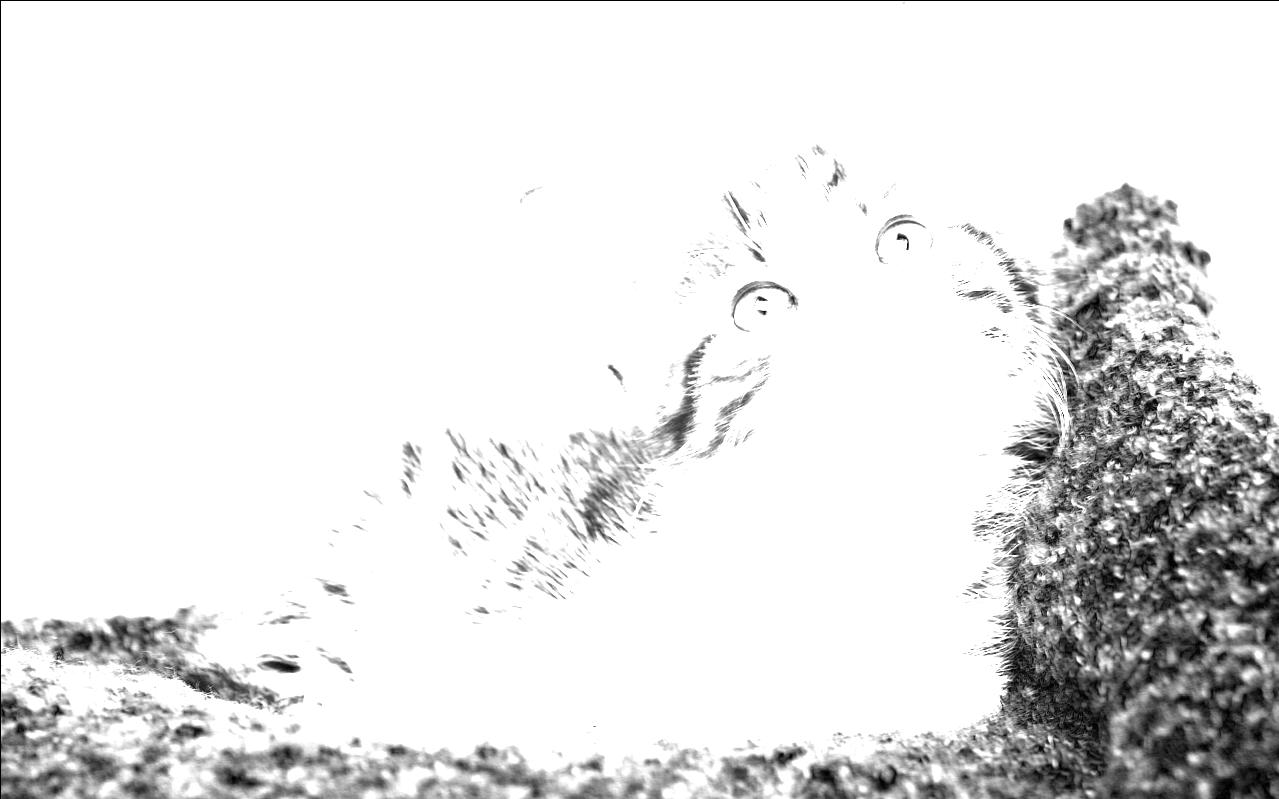
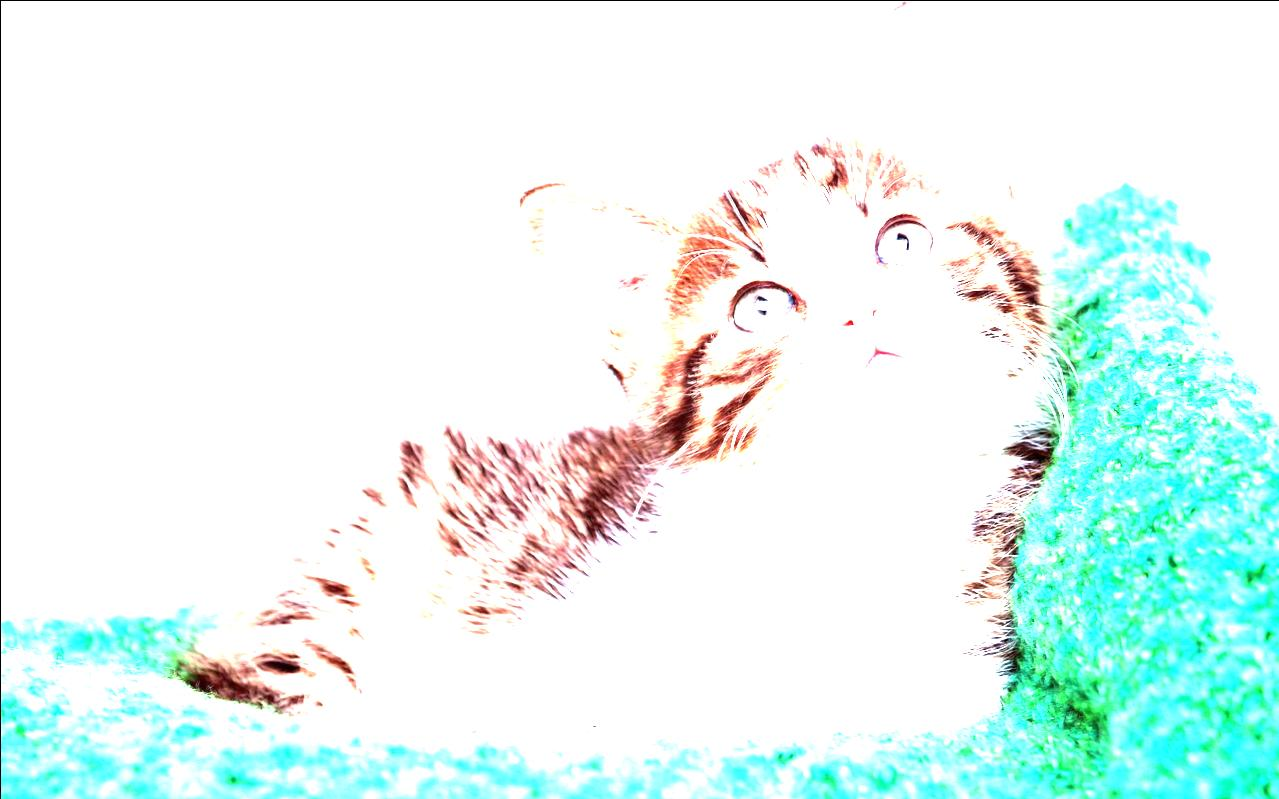
fixed small bug

diff --git a/sobel.m b/sobel.m
@@ -25,8 +25,8 @@ for i = 2:height - 1
             magy = 0;
             for a = 1:3
                 for b = 1:3
-                    magx = magx + (kernelx(a, b) * image(i + a - 2, j + b - 2));
-                    magy = magy + (kernely(a, b) * image(i + a - 2, j + b - 2));
+                    magx = magx + (kernelx(a, b) * image(i + a - 2, j + b - 2, k));
+                    magy = magy + (kernely(a, b) * image(i + a - 2, j + b - 2, k));
                 end;
             end;     
             edges(i,j,k) = sqrt(magx^2 + magy^2); %#ok<AGROW>
